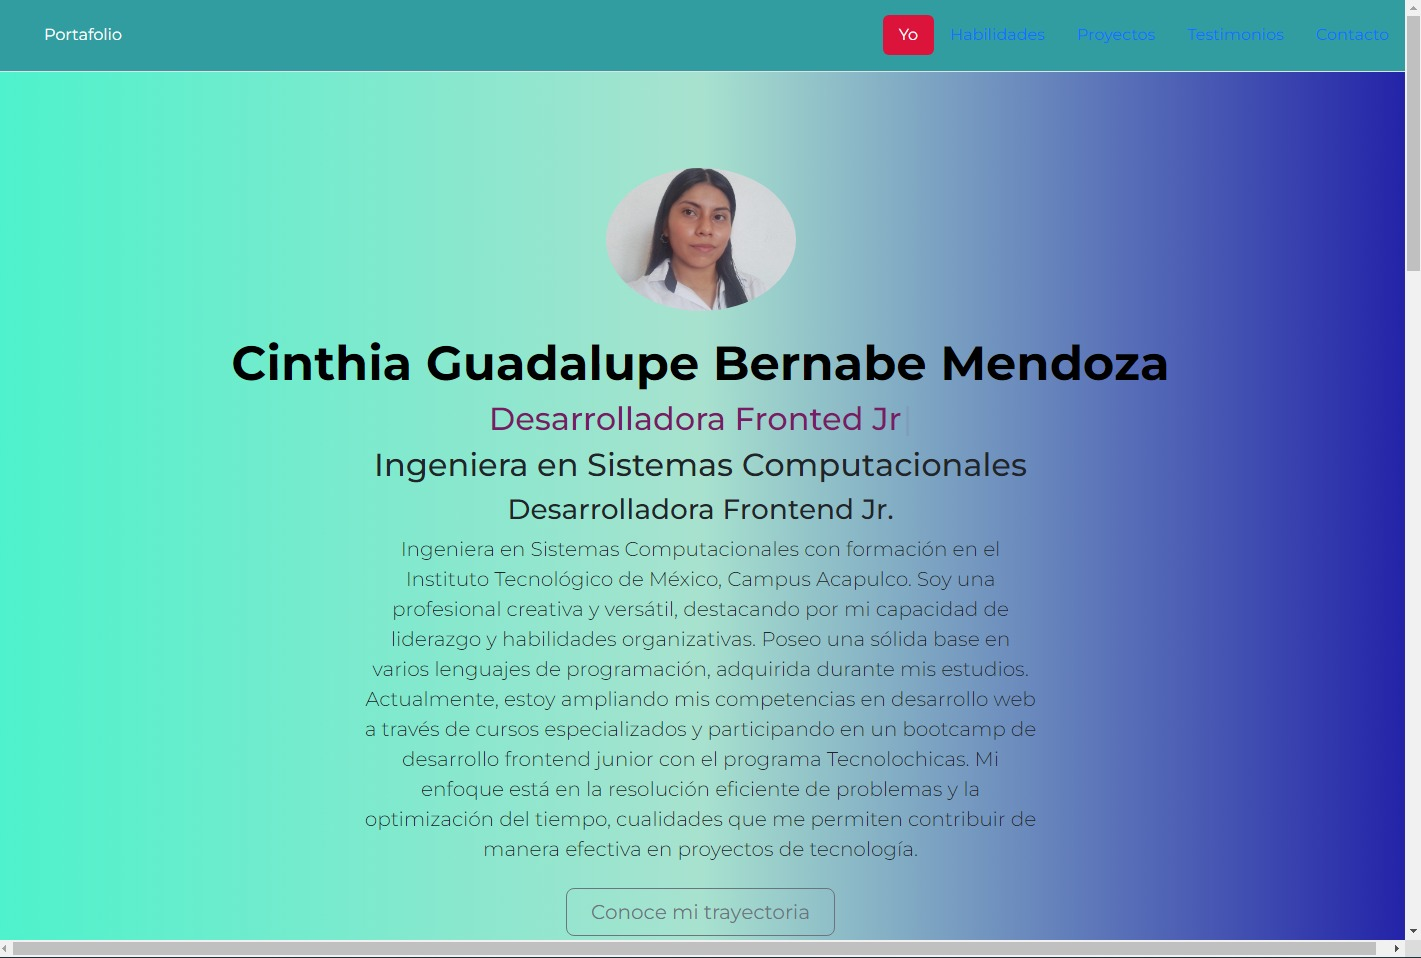
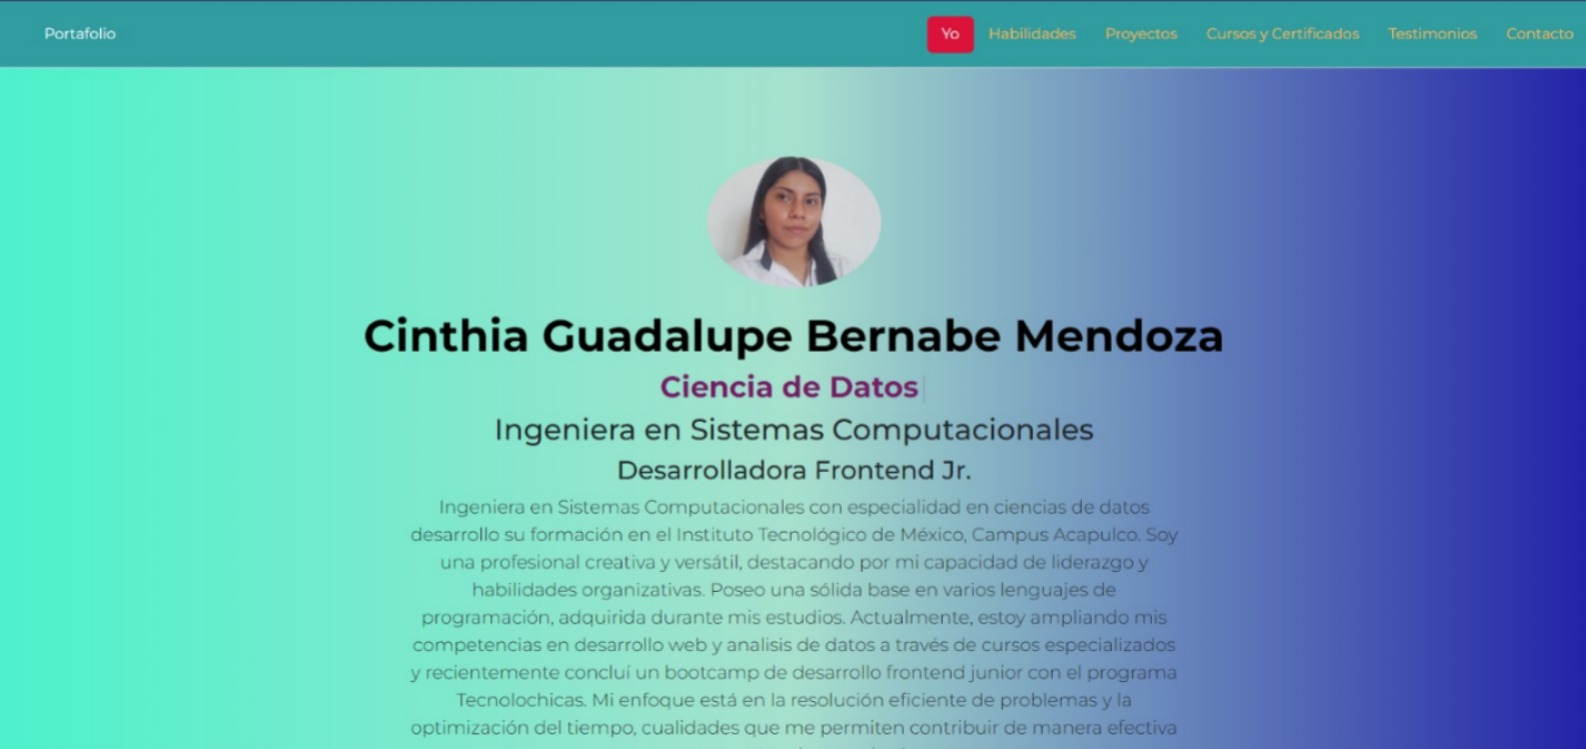
Add files via upload

Changed region(s): [[0.0, 0.0, 1.0, 1.0]]

diff --git a/index.html b/index.html
@@ -12,8 +12,6 @@
   <link rel="stylesheet" href="https://cdn.jsdelivr.net/npm/bootstrap-icons@1.11.3/font/bootstrap-icons.min.css">
   <!--FAVICON-->
   <link rel="shortcut icon" href="/assets/code-square.svg" type="image/x-icon">
-  <link rel="icon" href="https://icon-icons.com/">
-
   <link rel="stylesheet" href="style.css">
   <!-- CDN Bootstrap -->
   <link href="https://cdn.jsdelivr.net/npm/bootstrap@5.3.3/dist/css/bootstrap.min.css" rel="stylesheet"
@@ -36,7 +34,7 @@
       <li class="nav-item"><a id="button"href="#" class="nav-link active" aria-current="page">Yo</a></li>
       <li class="nav-item"><a href="#habilidades" class="nav-link">Habilidades</a></li>
       <li class="nav-item"><a href="#proyectos" class="nav-link">Proyectos</a></li>
-      <li class="nav-item"><a href="#cursos y Certificaciones" class="nav-link">Cursos Y Certificaciones</a></li>
+      <li class="nav-item"><a href="#cursos y Certificaciones" class="nav-link">Cursos y Certificados</a></li>
       <li class="nav-item"><a href="#testimonios" class="nav-link">Testimonios</a></li>
       <li class="nav-item"><a href="#contacto" class="nav-link">Contacto</a></li>
     </ul>
@@ -47,17 +45,16 @@
     <section id="sobre-mi">
 
       <div class="px-4 py-5 my-5 text-center">
-        <img class="rounded-circle d-block mx-auto mb-4" src="imagenes/Foto_de_Perfil.jpeg" alt="" width="190">
+        <img class="rounded-circle d-block mx-auto mb-4" src="WhatsApp Image 2024-07-24 at 6.47.50 PM.jpeg" alt="" width="190">
         <h1 class="display-5 fw-bold text-body-emphasis">Cinthia Guadalupe Bernabe Mendoza
         </h1>
         <h2 id="app">
         <h2>Ingeniera en Sistemas Computacionales</h2>
-        <h3>Especialidad en Ciencias De Datos</h3>
         <h3>Desarrolladora Frontend Jr.</h3>
-        </h2>
+      </h2>
         <div class="col-lg-6 mx-auto">
           <p class="lead mb-4">Ingeniera en Sistemas Computacionales  con especialidad en ciencias de datos desarrollo su formación en el Instituto Tecnológico de México, Campus Acapulco. Soy una profesional creativa y versátil, destacando por mi capacidad de liderazgo y habilidades organizativas. Poseo una sólida base en varios lenguajes de programación, adquirida durante mis estudios. Actualmente, estoy ampliando mis competencias en desarrollo web y analisis de datos a través de cursos especializados y recientemente concluí  un bootcamp de desarrollo frontend junior con el programa Tecnolochicas.
-             Mi enfoque está en la resolución eficiente de problemas y la optimización del tiempo, cualidades que me permiten contribuir de manera efectiva en proyectos de tecnología.</p>
+            Mi enfoque está en la resolución eficiente de problemas y la optimización del tiempo, cualidades que me permiten contribuir de manera efectiva en proyectos de tecnología.</p>
           <div class="d-grid gap-2 d-sm-flex justify-content-sm-center">
             <button type="button" class="btn btn-outline-secondary btn-lg px-4">Conoce mi trayectoria</button>
           </div>
@@ -138,9 +135,11 @@
       </div>
      
 
+
     </section>
-    
+
     <section id="proyectos">
+
       <div class="container px-4 py-5" id="hanging-icons">
         <h2 class="pb-2 border-bottom"><center>Proyectos</center></h2>
 
@@ -187,8 +186,9 @@
         </div>
       </div>
 
+
     </section>
-    
+
     <section id="cursos y Certificaciones">
       <div class="container px-4 py-5" id="hanging-icons">
       <h2 class="pb-2 border-bottom"><center>Cursos y Certificaciones</center></h2>
@@ -259,6 +259,7 @@
 
     </section>
     
+
     <section id="testimonios" class="mt-5">
       <h2 class="pb-2 border-bottom"><center>Testimonios</center></h2>
       <div id="carouselExampleAutoplaying" class="carousel slide" data-bs-ride="carousel">
@@ -311,7 +312,7 @@
       
       </div>
     </section>
-   
+
     <section id="contacto">
       <div class="container my-5">
         <div class="p-5 text-center bg-body-tertiary rounded-3">
@@ -337,12 +338,11 @@
   <footer class=" py-3 my-4">
     <ul class="nav justify-content-center pb-3 mb-3">
       <li class="nav-item"><a href="https://github.com/Cinthia-26/" class="nav-link px-2"><i class="icon-footer    bi bi-github"></i></a></li>
-     <!-- <a href="https://github.com/Cinthia-26"></a>
-      <li class="nav-item">
+     <!-- <li class="nav-item">
         <a href="https://github.com/Cinthia-26"></a>
       </li>-->
       <li class="nav-item"><a href="https://www.linkedin.com/in/cinthia-bernabe-953781273/" class="nav-link px-2"><i class="icon-footer    bi bi-linkedin"></i></a></li>
-     <!----<li class="nav-item"><a href="#" class="nav-link px-2"><i class="icon-footer    bi bi-facebook"></i></a></li>-->
+    <!--  <li class="nav-item"><a href="#" class="nav-link px-2"><i class="icon-footer    bi bi-facebook"></i></a></li>-->
     </ul>
     <p class="text-center text-body-secondary">Creado por Cinthia en el bootcamp de <a href="https://tecnolochicas.mx/">Tecnolochicas PRO</a></p>
     <p class="text-center text-body-secondary">© 2024 Company, Inc</p>

diff --git a/style.css b/style.css
@@ -85,7 +85,3 @@ color: white;
 #app{
     color:#781C68;
 }
-.habilidadesB{
-    align-items: center;
-    border-radius: 2px;
-}
